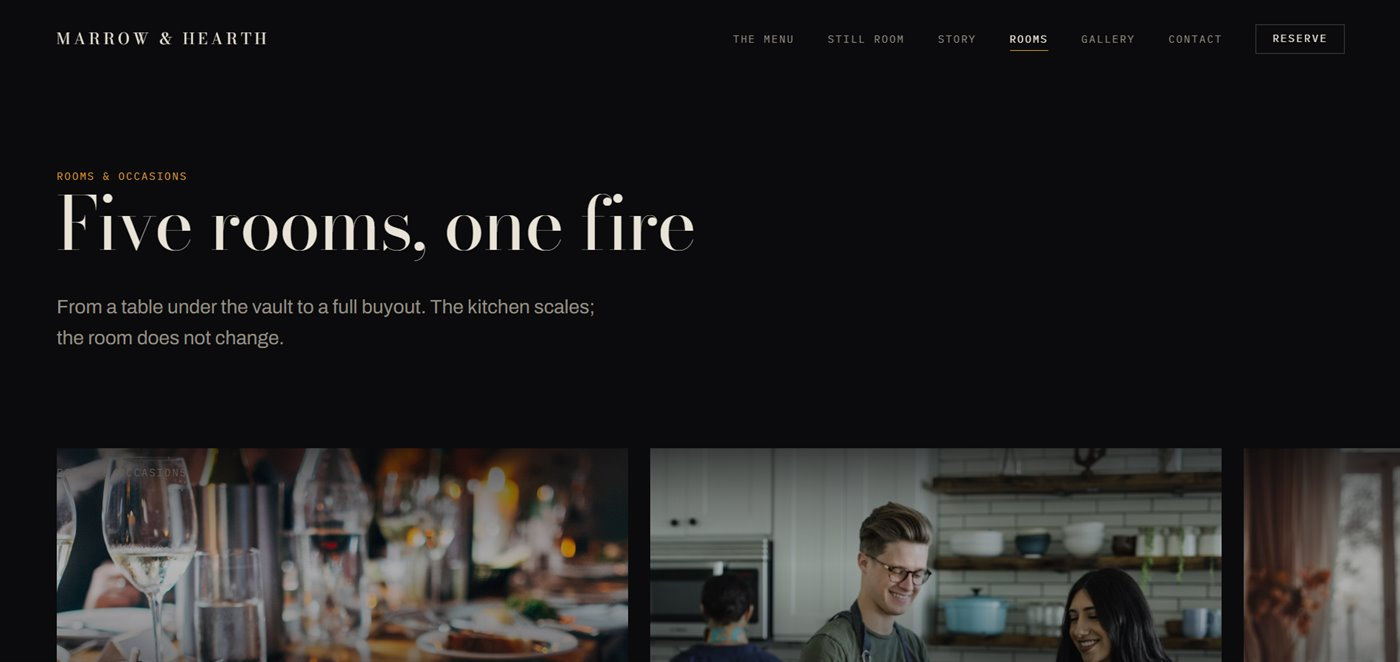
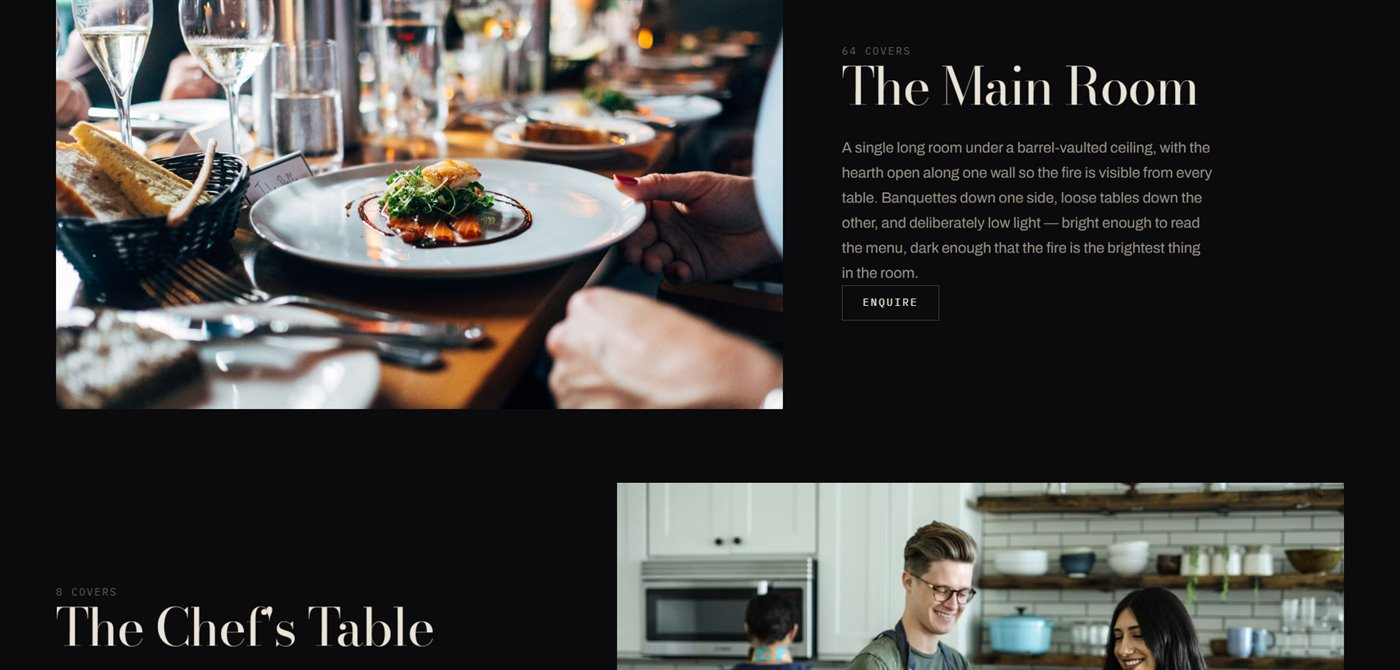
Swap Restaurant col1b image and point ME. AI at its live deployment
- Replace the "Five rooms, one fire" capture with the Rooms & Occasions
  view ("The Main Room" / "The Chef's Table") in the col1b slot
- ME. AI Skin & Scalp System now links to
  https://ai-skin-scalp-personalized-treatmen.vercel.app/ instead of the
  GitHub profile

Job Portal System still points at the GitHub profile; no live URL yet.

diff --git a/src/App.jsx b/src/App.jsx
@@ -749,7 +749,7 @@ const projects = [
     name: "ME. AI Skin & Scalp System",
     desc: "An end-to-end personalised dermatology platform analysing user images and medical history to generate adaptive treatment plans. Achieves 90%+ classification accuracy across skin and scalp conditions using a 5-stage vision pipeline with an LLM output layer.",
     tech: ["React", "Django", "MySQL", "EfficientNet-B4", "U-Net", "YOLOv8", "XGBoost", "LLM"],
-    link: "https://github.com/hudamasood",
+    link: "https://ai-skin-scalp-personalized-treatmen.vercel.app/",
     images: {
[2 lines of base64/hex data omitted]
